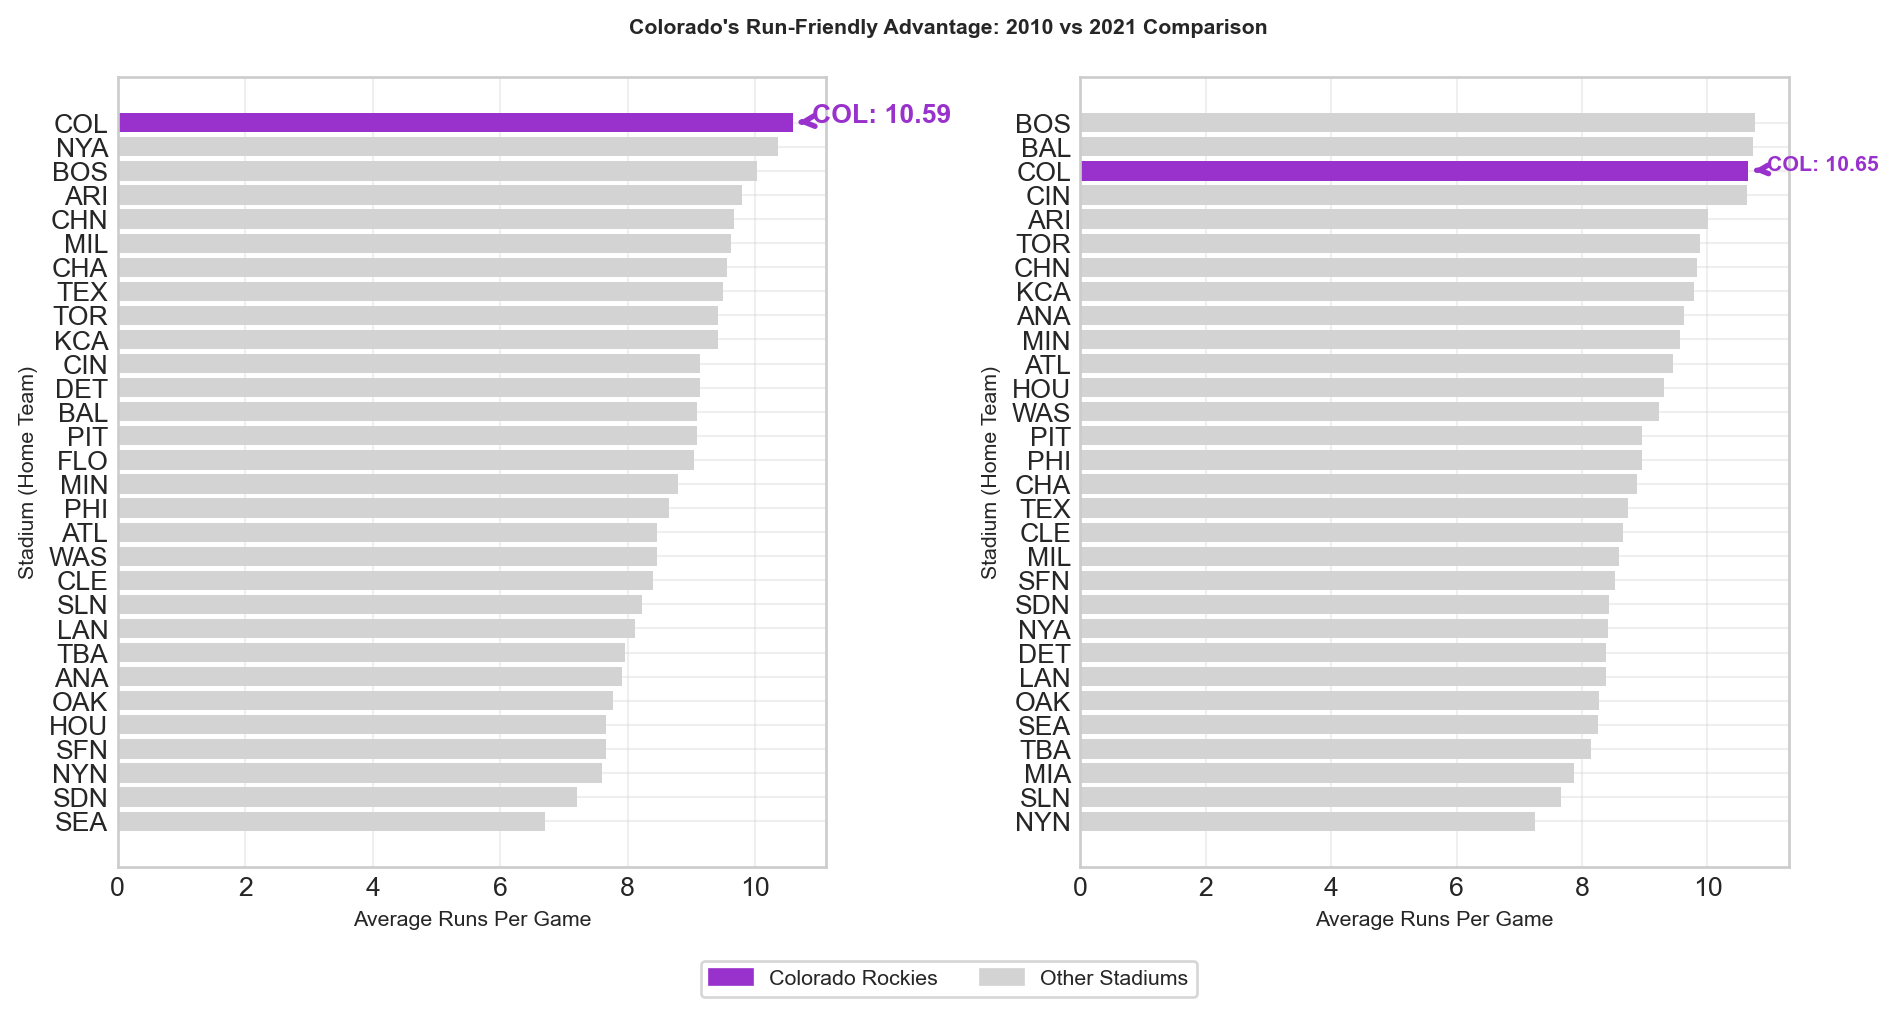
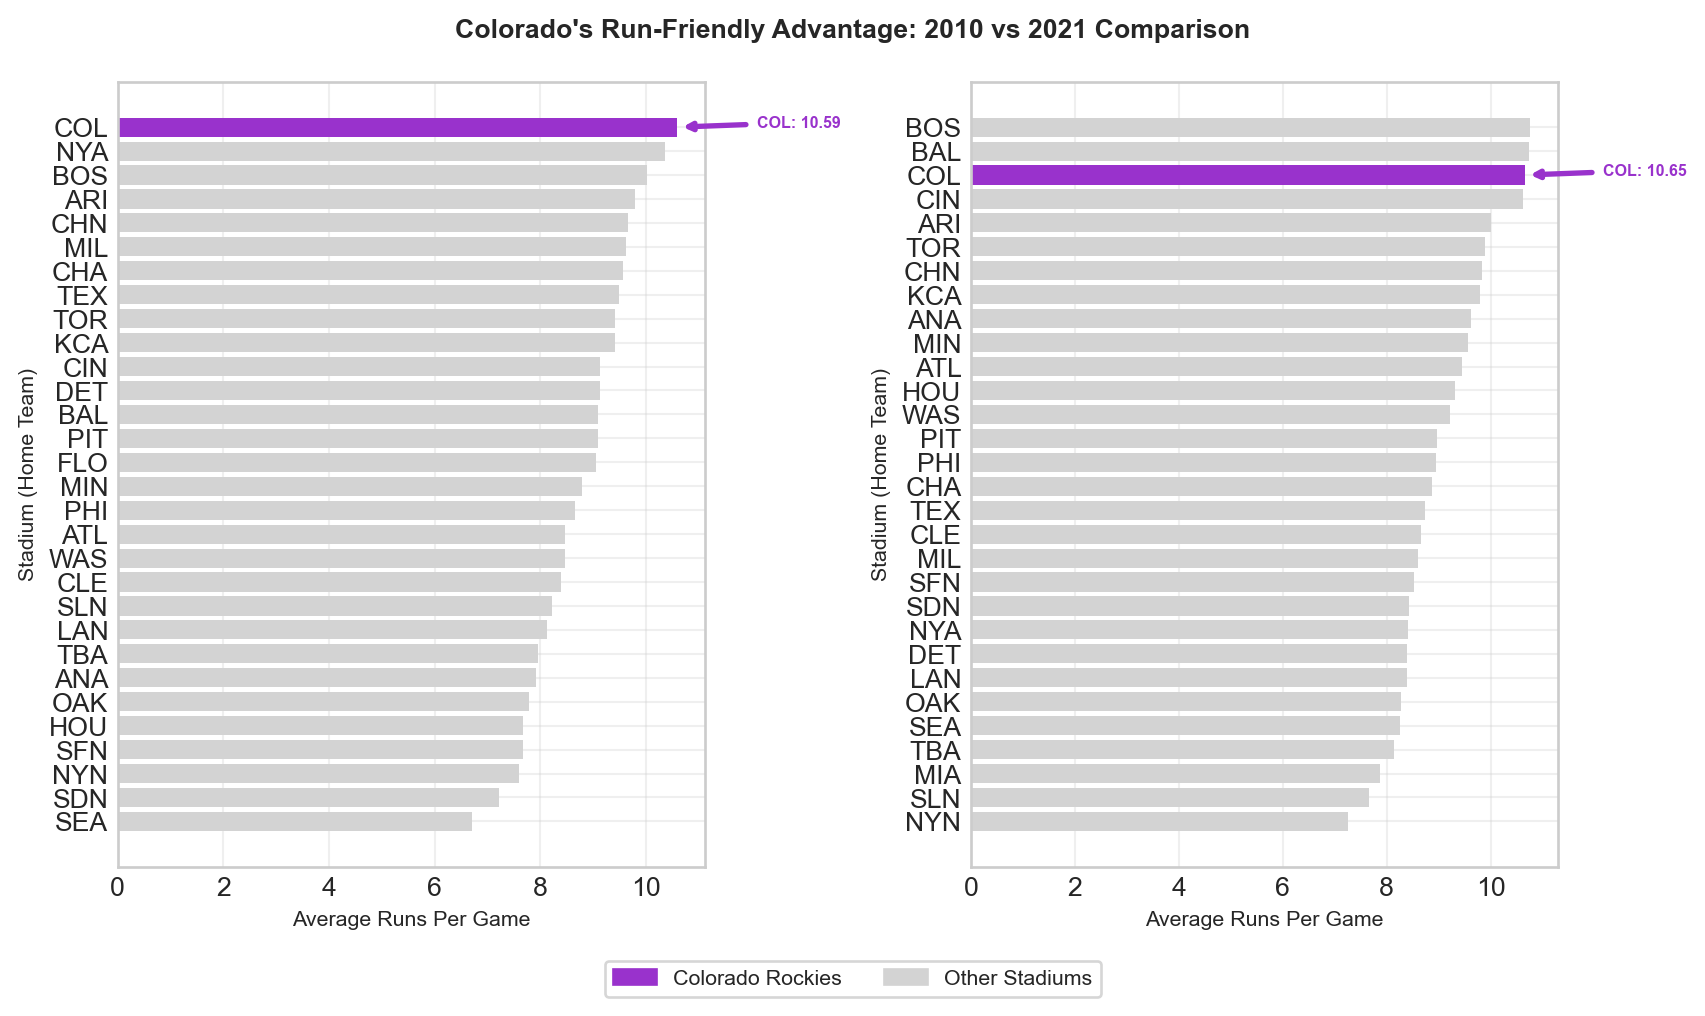
commit

diff --git a/index.html b/index.html
@@ -134,7 +134,7 @@ ul.task-list li input[type="checkbox"] {
 <div class="cell-output cell-output-display">
 <div>
 <figure class="figure">
-<p><img src="index_files/figure-html/stage-3-mapping-exploration-output-1.png" id="stage-3-mapping-exploration" width="758" height="566" class="figure-img"></p>
+<p><img src="index_files/figure-html/stage-3-mapping-exploration-output-1.png" id="stage-3-mapping-exploration" width="758" height="567" class="figure-img"></p>
 </figure>
 </div>
 </div>
@@ -213,13 +213,13 @@ Colorado is 20.8% above league average</code></pre>
 <p>Let’s create a comprehensive comparison between 2010 and 2021:</p>
 <div id="cell-advanced-oo-techniques" class="cell" data-dpi="100" data-fig-height="5" data-fig-width="10" data-execution_count="5">
 <div class="cell-output cell-output-stderr">
-<pre><code>/var/folders/gs/0mkfxd8557g20gkf6q23y2br0000gn/T/ipykernel_7200/1872178017.py:72: UserWarning: The figure layout has changed to tight
+<pre><code>/var/folders/gs/0mkfxd8557g20gkf6q23y2br0000gn/T/ipykernel_10439/2598706580.py:72: UserWarning: The figure layout has changed to tight
   plt.tight_layout()</code></pre>
 </div>
 <div class="cell-output cell-output-display">
 <div class="quarto-figure quarto-figure-center">
 <figure class="figure">
-<p><img src="index_files/figure-html/advanced-oo-techniques-output-2.png" id="advanced-oo-techniques" class="quarto-figure quarto-figure-center anchored figure-img" width="949" height="508"></p>
+<p><img src="index_files/figure-html/advanced-oo-techniques-output-2.png" id="advanced-oo-techniques" class="quarto-figure quarto-figure-center anchored figure-img" width="853" height="508"></p>
 </figure>
 </div>
 </div>
